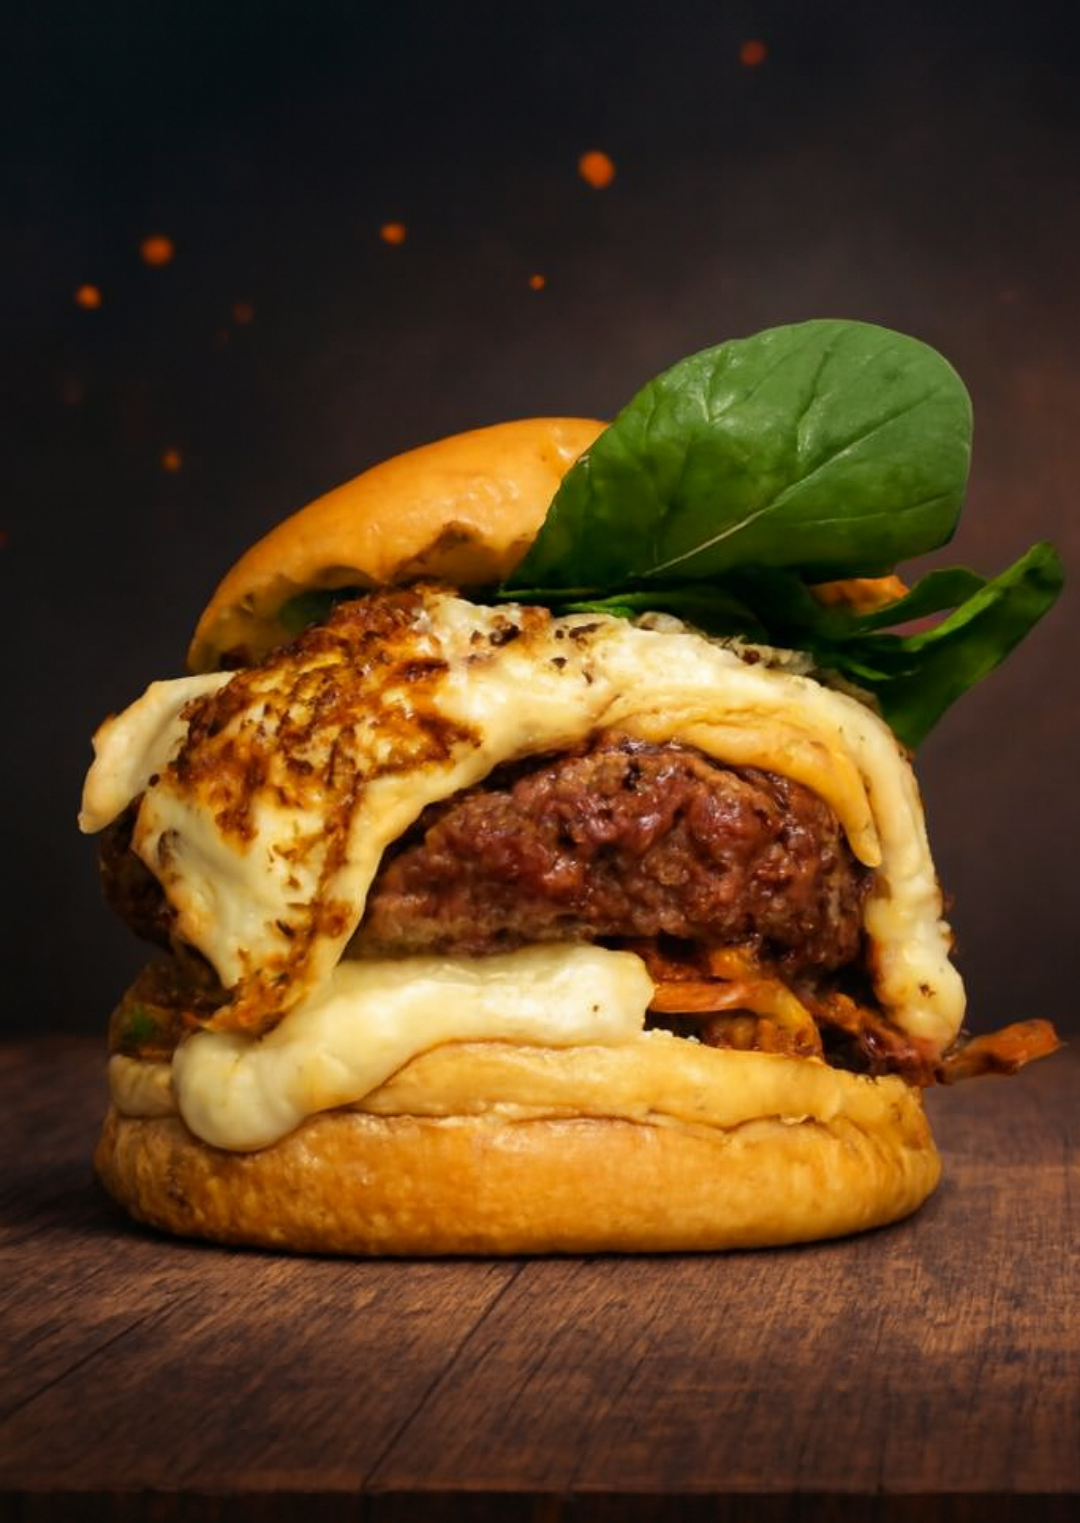
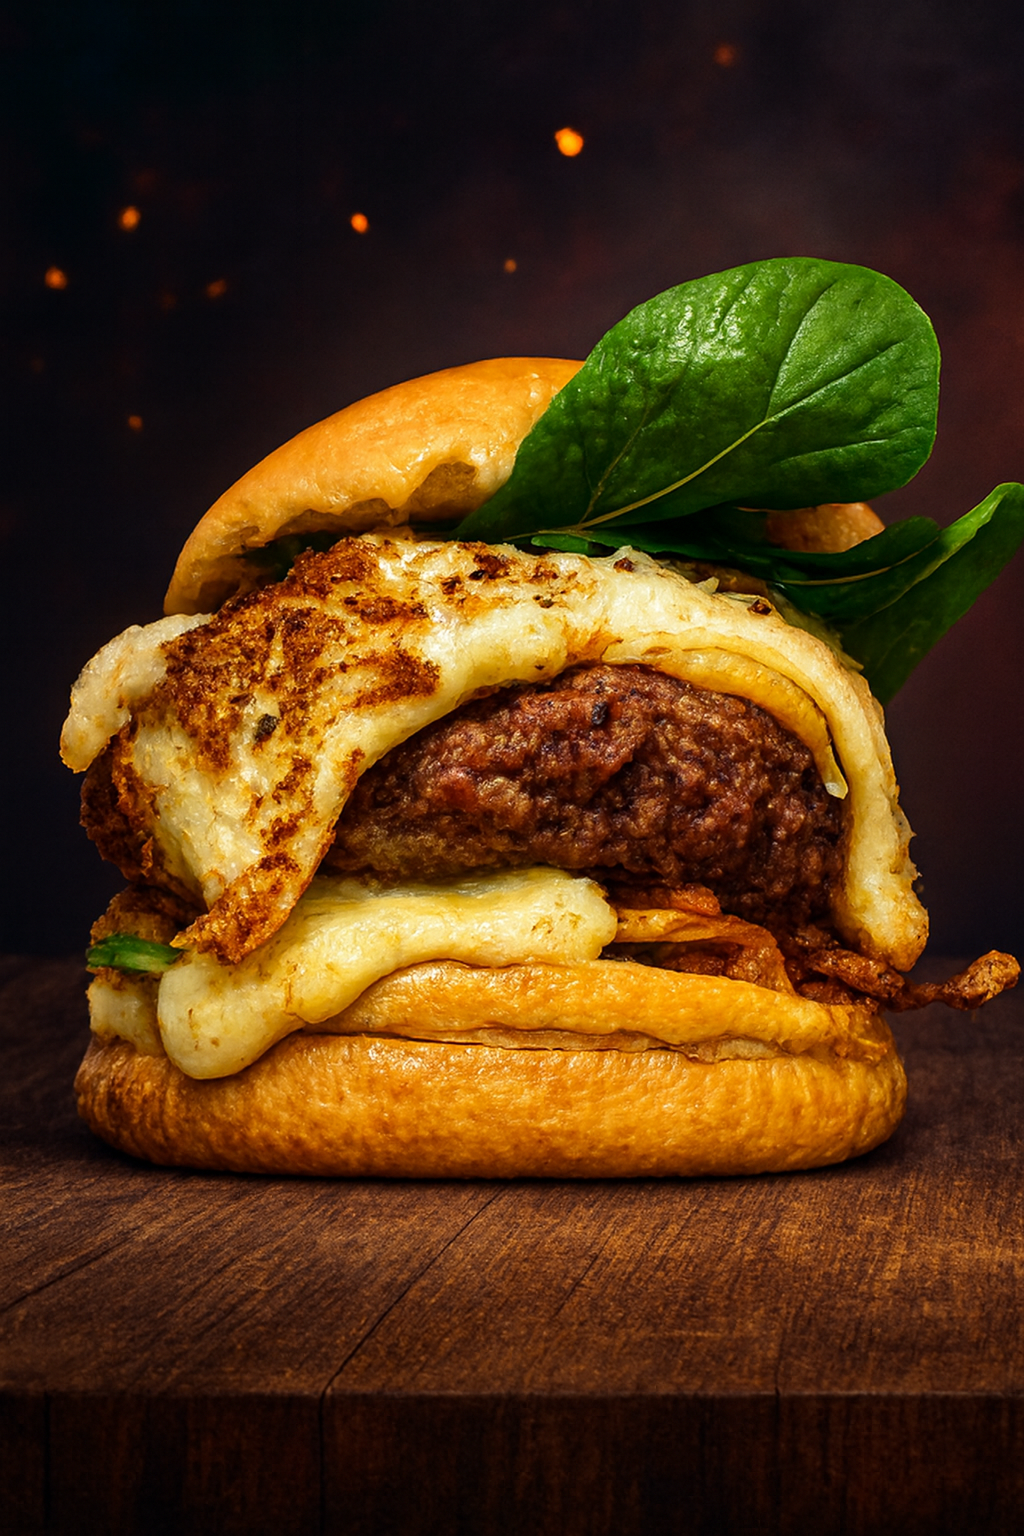
a

diff --git a/src/app/page.tsx b/src/app/page.tsx
@@ -17,7 +17,6 @@ export default function Home() {
       position: 'relative'
     }}>
 
-      {/* 🔥 OVERLAY GLOBAL DE CHAMAS */}
       <div className="flame-overlay"></div>
 
       <style jsx global>{`
@@ -27,10 +26,6 @@ export default function Home() {
           overflow-x: hidden;
           background-color: #0a0a0a;
           scroll-behavior: smooth;
-        }
-
-        * {
-          box-sizing: border-box;
         }
 
         .flame-overlay {
@@ -50,57 +45,52 @@ export default function Home() {
           z-index: 2;
         }
 
-        /* 📱 AJUSTES EXCLUSIVOS MOBILE */
+        /* 📱 AJUSTES MOBILE ESPECÍFICOS */
         @media (max-width: 768px) {
           .hero-section {
-            height: 90vh !important;
-            /* 👇 RENOMEIE SUA FOTO NOVA PARA 'burger-mobile.jpg' OU USE O NOME ABAIXO */
-            background-image: url("/design_mobile.jpg") !important; 
-            background-position: center center !important;
+            height: 75vh !important; /* Reduzi um pouco a altura para o texto encaixar melhor abaixo */
+            background-image: url("/burger-mobile.jpg") !important; 
+            background-position: center top !important;
             display: flex !important;
-            flex-direction: column !important;
-            justify-content: flex-end !important; 
-            padding-bottom: 40px !important;
+            align-items: flex-end !important;
+            justify-content: center !important;
+            padding-bottom: 0 !important;
           }
 
           .hero-content {
             padding-right: 0 !important;
-            justify-content: center !important;
-            text-align: center !important;
-            /* Gradiente suave para o texto não sumir na madeira */
-            background: linear-gradient(transparent, rgba(0,0,0,0.85) 60%) !important;
             width: 100% !important;
-            padding: 40px 20px !important;
+            /* Posiciona o texto exatamente na transição da foto para o cardápio */
+            position: absolute !important;
+            bottom: -40px !important; 
+            z-index: 10 !important;
           }
 
           .hero-text {
             text-align: center !important;
-            max-width: 100% !important;
+            width: 100% !important;
           }
 
           .hero-text h1 {
-            font-size: 42px !important;
-            line-height: 0.9 !important;
+            font-size: 32px !important;
+            text-shadow: none !important; /* REMOVE A SOMBRA NO MOBILE */
+            margin: 0 !important;
+            background-color: transparent !important;
           }
 
+          /* ESCONDE O NOME NO MOBILE */
           .hero-text p {
-            font-size: 24px !important;
+            display: none !important;
           }
 
-          .cardapio-grid {
-            grid-template-columns: 1fr !important;
-            padding: 0 15px !important;
-          }
-
-          .banner-title {
-            font-size: 26px !important;
-            padding: 0 10px;
+          /* Ajuste de margem no cardápio para não colar no texto subido */
+          #cardapio {
+            padding-top: 100px !important;
           }
         }
       `}</style>
 
       {/* ================= HERO ================= */}
-
       <section className="hero-section" style={{
         position: 'relative',
         height: '90vh',
@@ -108,7 +98,7 @@ export default function Home() {
         display: 'flex',
         alignItems: 'center',
         overflow: 'hidden',
-        backgroundImage: 'url("/burger-destaque.jpg")', // Foto horizontal original (PC)
+        backgroundImage: 'url("/burger-destaque.jpg")',
         backgroundSize: 'cover',
         backgroundPosition: 'left center',
         backgroundRepeat: 'no-repeat'
@@ -152,7 +142,6 @@ export default function Home() {
       </section>
 
       {/* ================= SEÇÃO CARDÁPIO ================= */}
-
       <section id="cardapio" style={{
         padding: '120px 20px 80px',
         backgroundImage: 'linear-gradient(rgba(10, 10, 10, 0.8), rgba(10, 10, 10, 0.8)), url("/grunge-black-concrete-textured-background.jpg")',
@@ -161,84 +150,17 @@ export default function Home() {
         backgroundAttachment: 'fixed',
         textAlign: 'center'
       }}>
-        <span style={{
-          color: '#fff', fontSize: '20px', textTransform: 'uppercase',
-          fontWeight: 'bold', letterSpacing: '2px', display: 'block', marginBottom: '-10px'
-        }}>Nosso</span>
-        
+        <span style={{ color: '#fff', fontSize: '20px', textTransform: 'uppercase', fontWeight: 'bold', letterSpacing: '2px', display: 'block', marginBottom: '-10px' }}>Nosso</span>
         <h2 style={{ fontSize: '60px', fontWeight: '900', color: '#b91c1c', margin: '0 0 50px 0' }}>CARDÁPIO</h2>
         
-        <div className="cardapio-grid" style={{ display: 'grid', gridTemplateColumns: 'repeat(auto-fit, minmax(300px, 1fr))', gap: '30px', maxWidth: '1200px', margin: '0 auto' }}>
-          <Card />
-          <Card />
-          <Card />
-        </div>
-
-        <div style={{ marginTop: '60px' }}>
-          <a href="/cardapio" style={{
-            display: 'inline-block',
-            padding: '15px 40px',
-            backgroundColor: 'transparent',
-            border: '2px solid #b91c1c',
-            color: '#fff',
-            fontSize: '18px',
-            fontWeight: 'bold',
-            textDecoration: 'none',
-            textTransform: 'uppercase',
-            letterSpacing: '2px',
-            transition: '0.3s',
-            borderRadius: '5px'
-          }}
-          onMouseOver={(e) => e.currentTarget.style.backgroundColor = '#b91c1c'}
-          onMouseOut={(e) => e.currentTarget.style.backgroundColor = 'transparent'}
-          >
-            VER O CARDÁPIO COMPLETO
-          </a>
-        </div>
+        {/* ... Restante do seu código (Cards, etc) ... */}
       </section>
 
-      {/* ================= BANNER ================= */}
-
-      <section style={{
-        height: '350px',
-        backgroundImage: `linear-gradient(rgba(0,0,0,0.6), rgba(0,0,0,0.6)), url("/banner-fome.jpg")`,
-        backgroundSize: 'cover',
-        backgroundPosition: 'center',
-        display: 'flex',
-        flexDirection: 'column',
-        alignItems: 'center',
-        justifyContent: 'center'
-      }}>
-        <h2 className="banner-title" style={{ fontSize: '45px', fontWeight: '900', textTransform: 'uppercase', textAlign: 'center' }}>
-          PREPARE-SE PARA O EXAGERO!
-        </h2>
-        <button style={btnOrderNow}>FAZER PEDIDO AGORA</button>
-      </section>
-
-      {/* WHATSAPP FLOAT */}
       <a href="https://wa.me/seunumero" target="_blank" style={whatsappFloat}>
         <MessageCircle size={35} color="#fff" />
       </a>
-
     </main>
   );
 }
 
-function Card() {
-  return (
-    <div style={cardStyle}>
-      <img src="/piscina-cacador.png" alt="Produto" style={imgStyle} />
-      <h3 style={titleCardStyle}>NOME DO PRODUTO</h3>
-      <p style={textCardStyle}>[DESCRIÇÃO DO PRODUTO]</p>
-      <button style={btnCardStyle}>PEDIR AGORA</button>
-    </div>
-  );
-}
-
-const cardStyle: React.CSSProperties = { backgroundColor: 'rgba(17, 17, 17, 0.95)', padding: '40px 30px', borderRadius: '15px', textAlign: 'center', border: '1px solid #333' };
-const imgStyle: React.CSSProperties = { width: '180px', marginBottom: '20px' };
-const titleCardStyle: React.CSSProperties = { fontSize: '20px', fontWeight: '900', marginBottom: '15px', textTransform: 'uppercase' };
-const textCardStyle: React.CSSProperties = { fontSize: '13px', color: '#ccc', marginBottom: '25px', lineHeight: '1.4' };
-const btnCardStyle: React.CSSProperties = { padding: '10px 25px', backgroundColor: 'transparent', border: '2px solid #fff', color: '#fff', fontWeight: 'bold', cursor: 'pointer' };
-const btnOrderNow: React.CSSProperties = { marginTop: '20px', padding: '12px 30px', backgroundColor: '#b91c1c', color: '#fff', border: 'none', fontWeight: 'bold', borderRadius: '5px', cursor: 'pointer' };
 const whatsappFloat: React.CSSProperties = { position: 'fixed', bottom: '30px', right: '30px', backgroundColor: '#25d366', padding: '15px', borderRadius: '50%', zIndex: 1000 };
